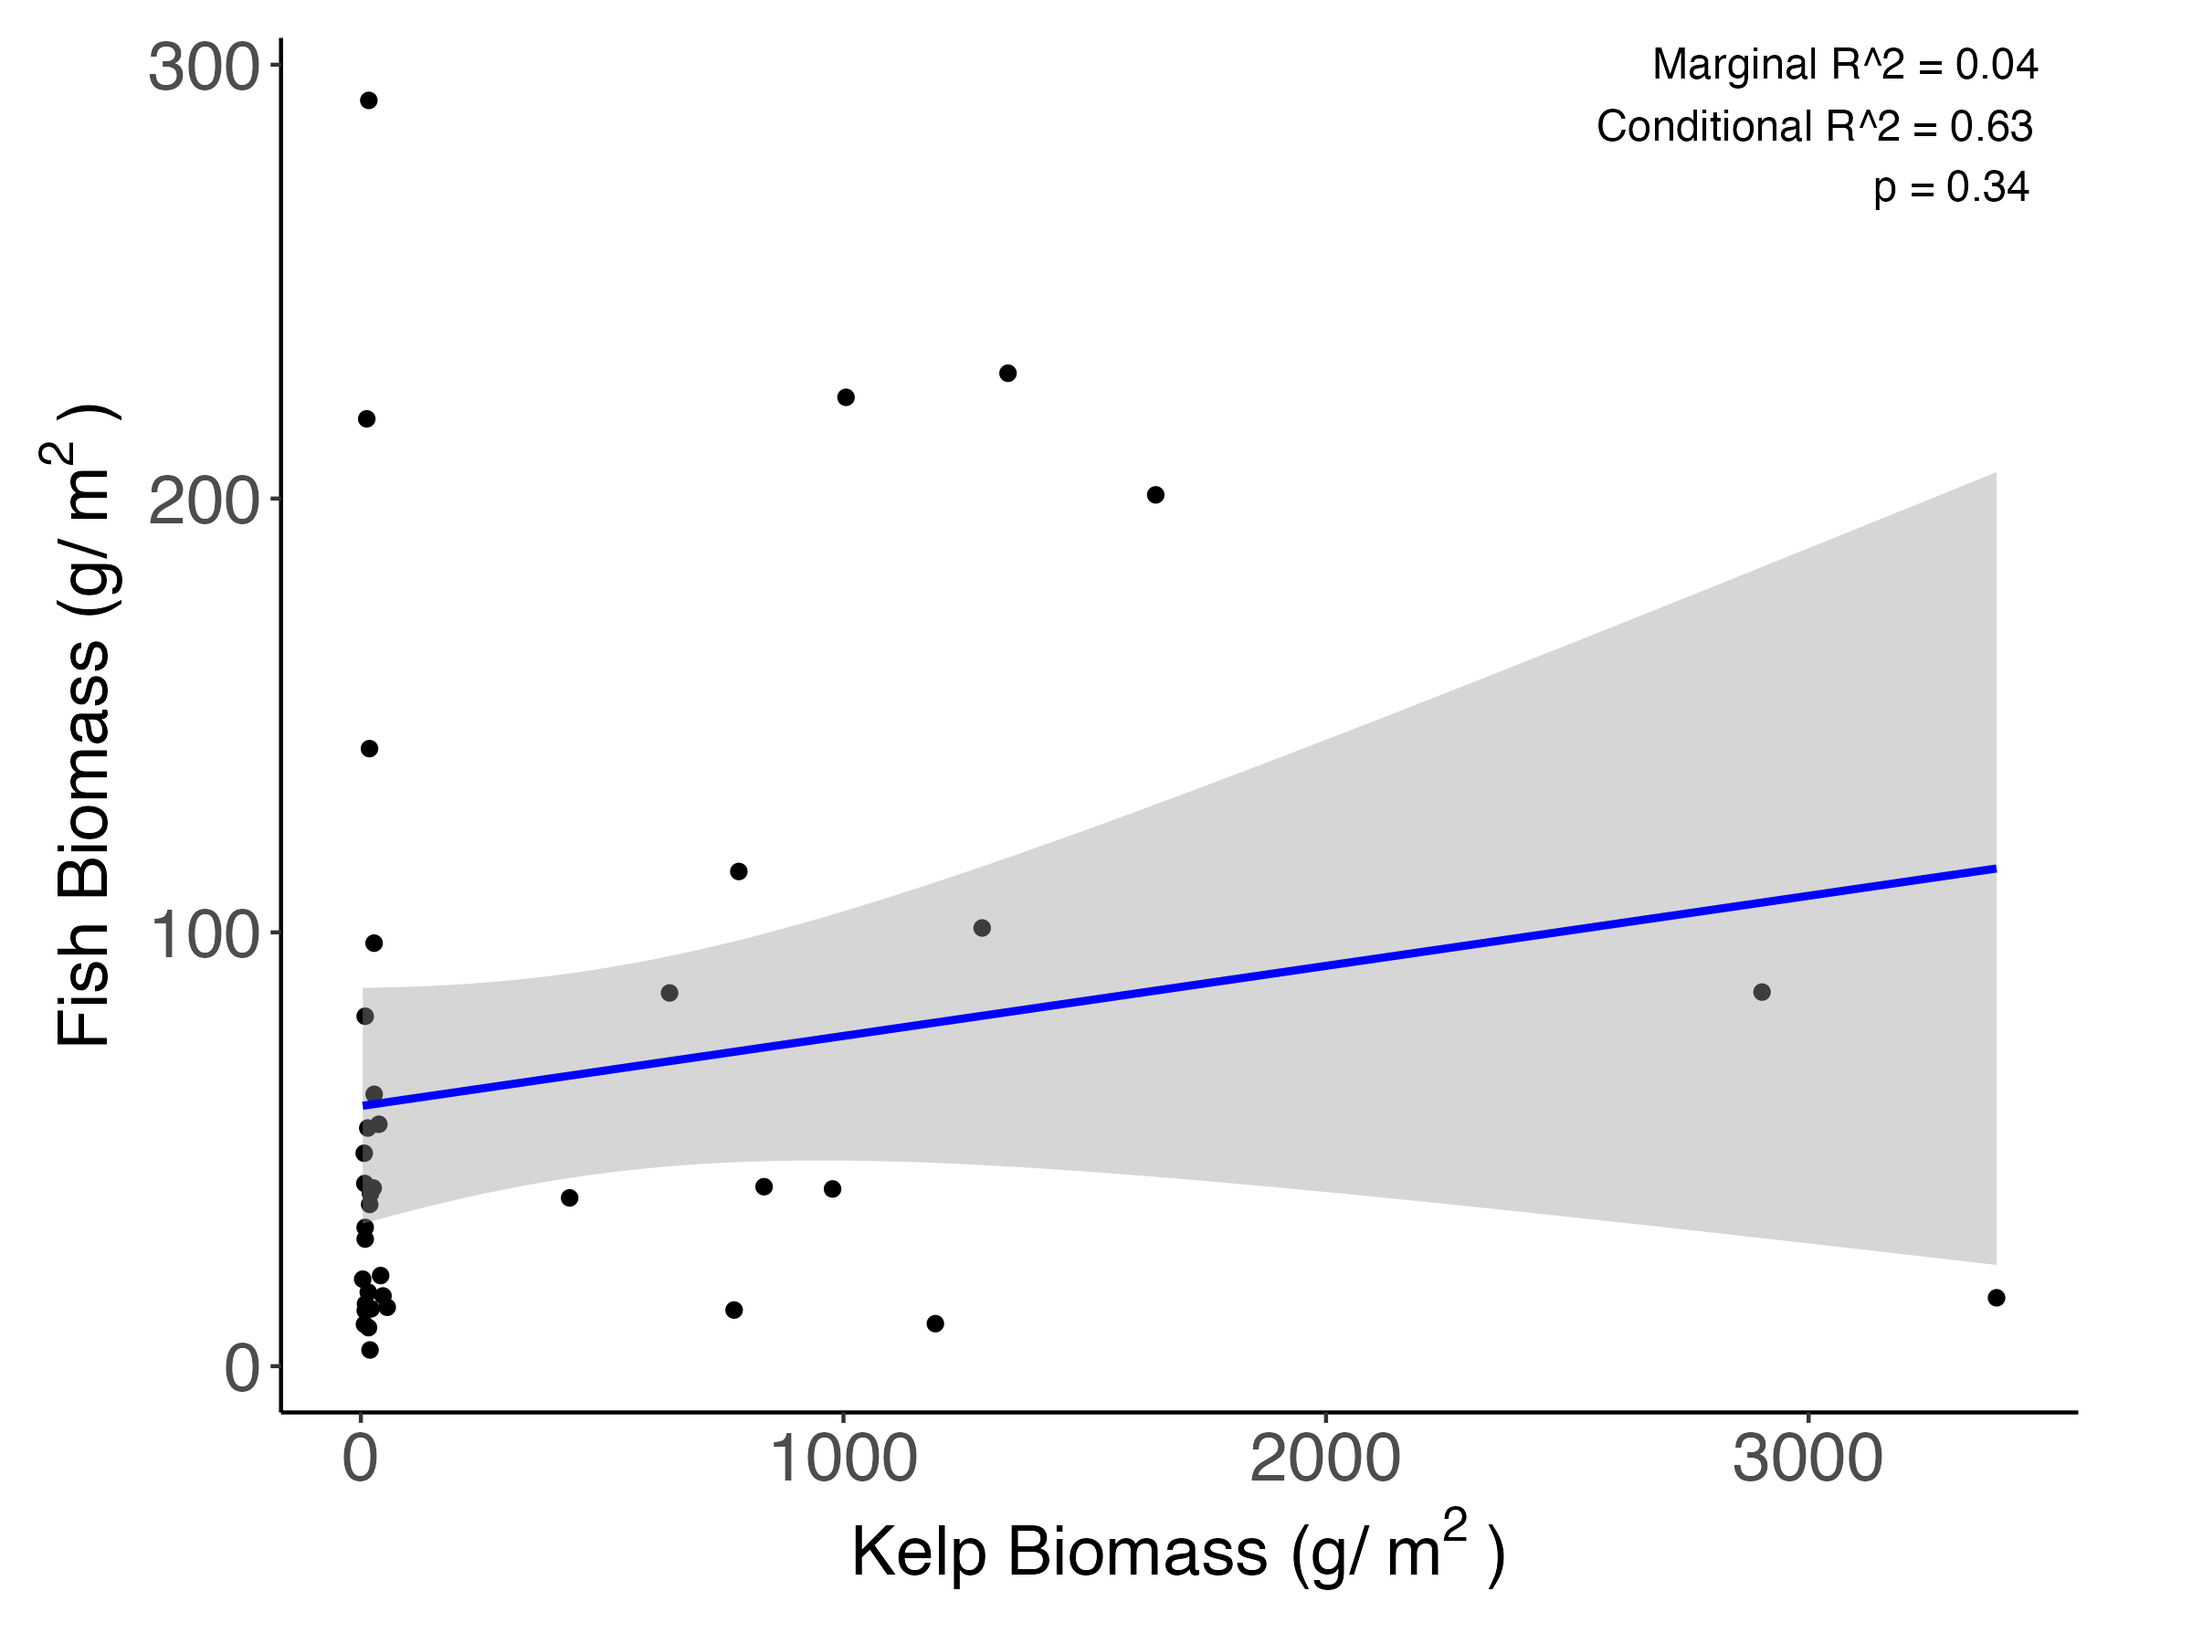
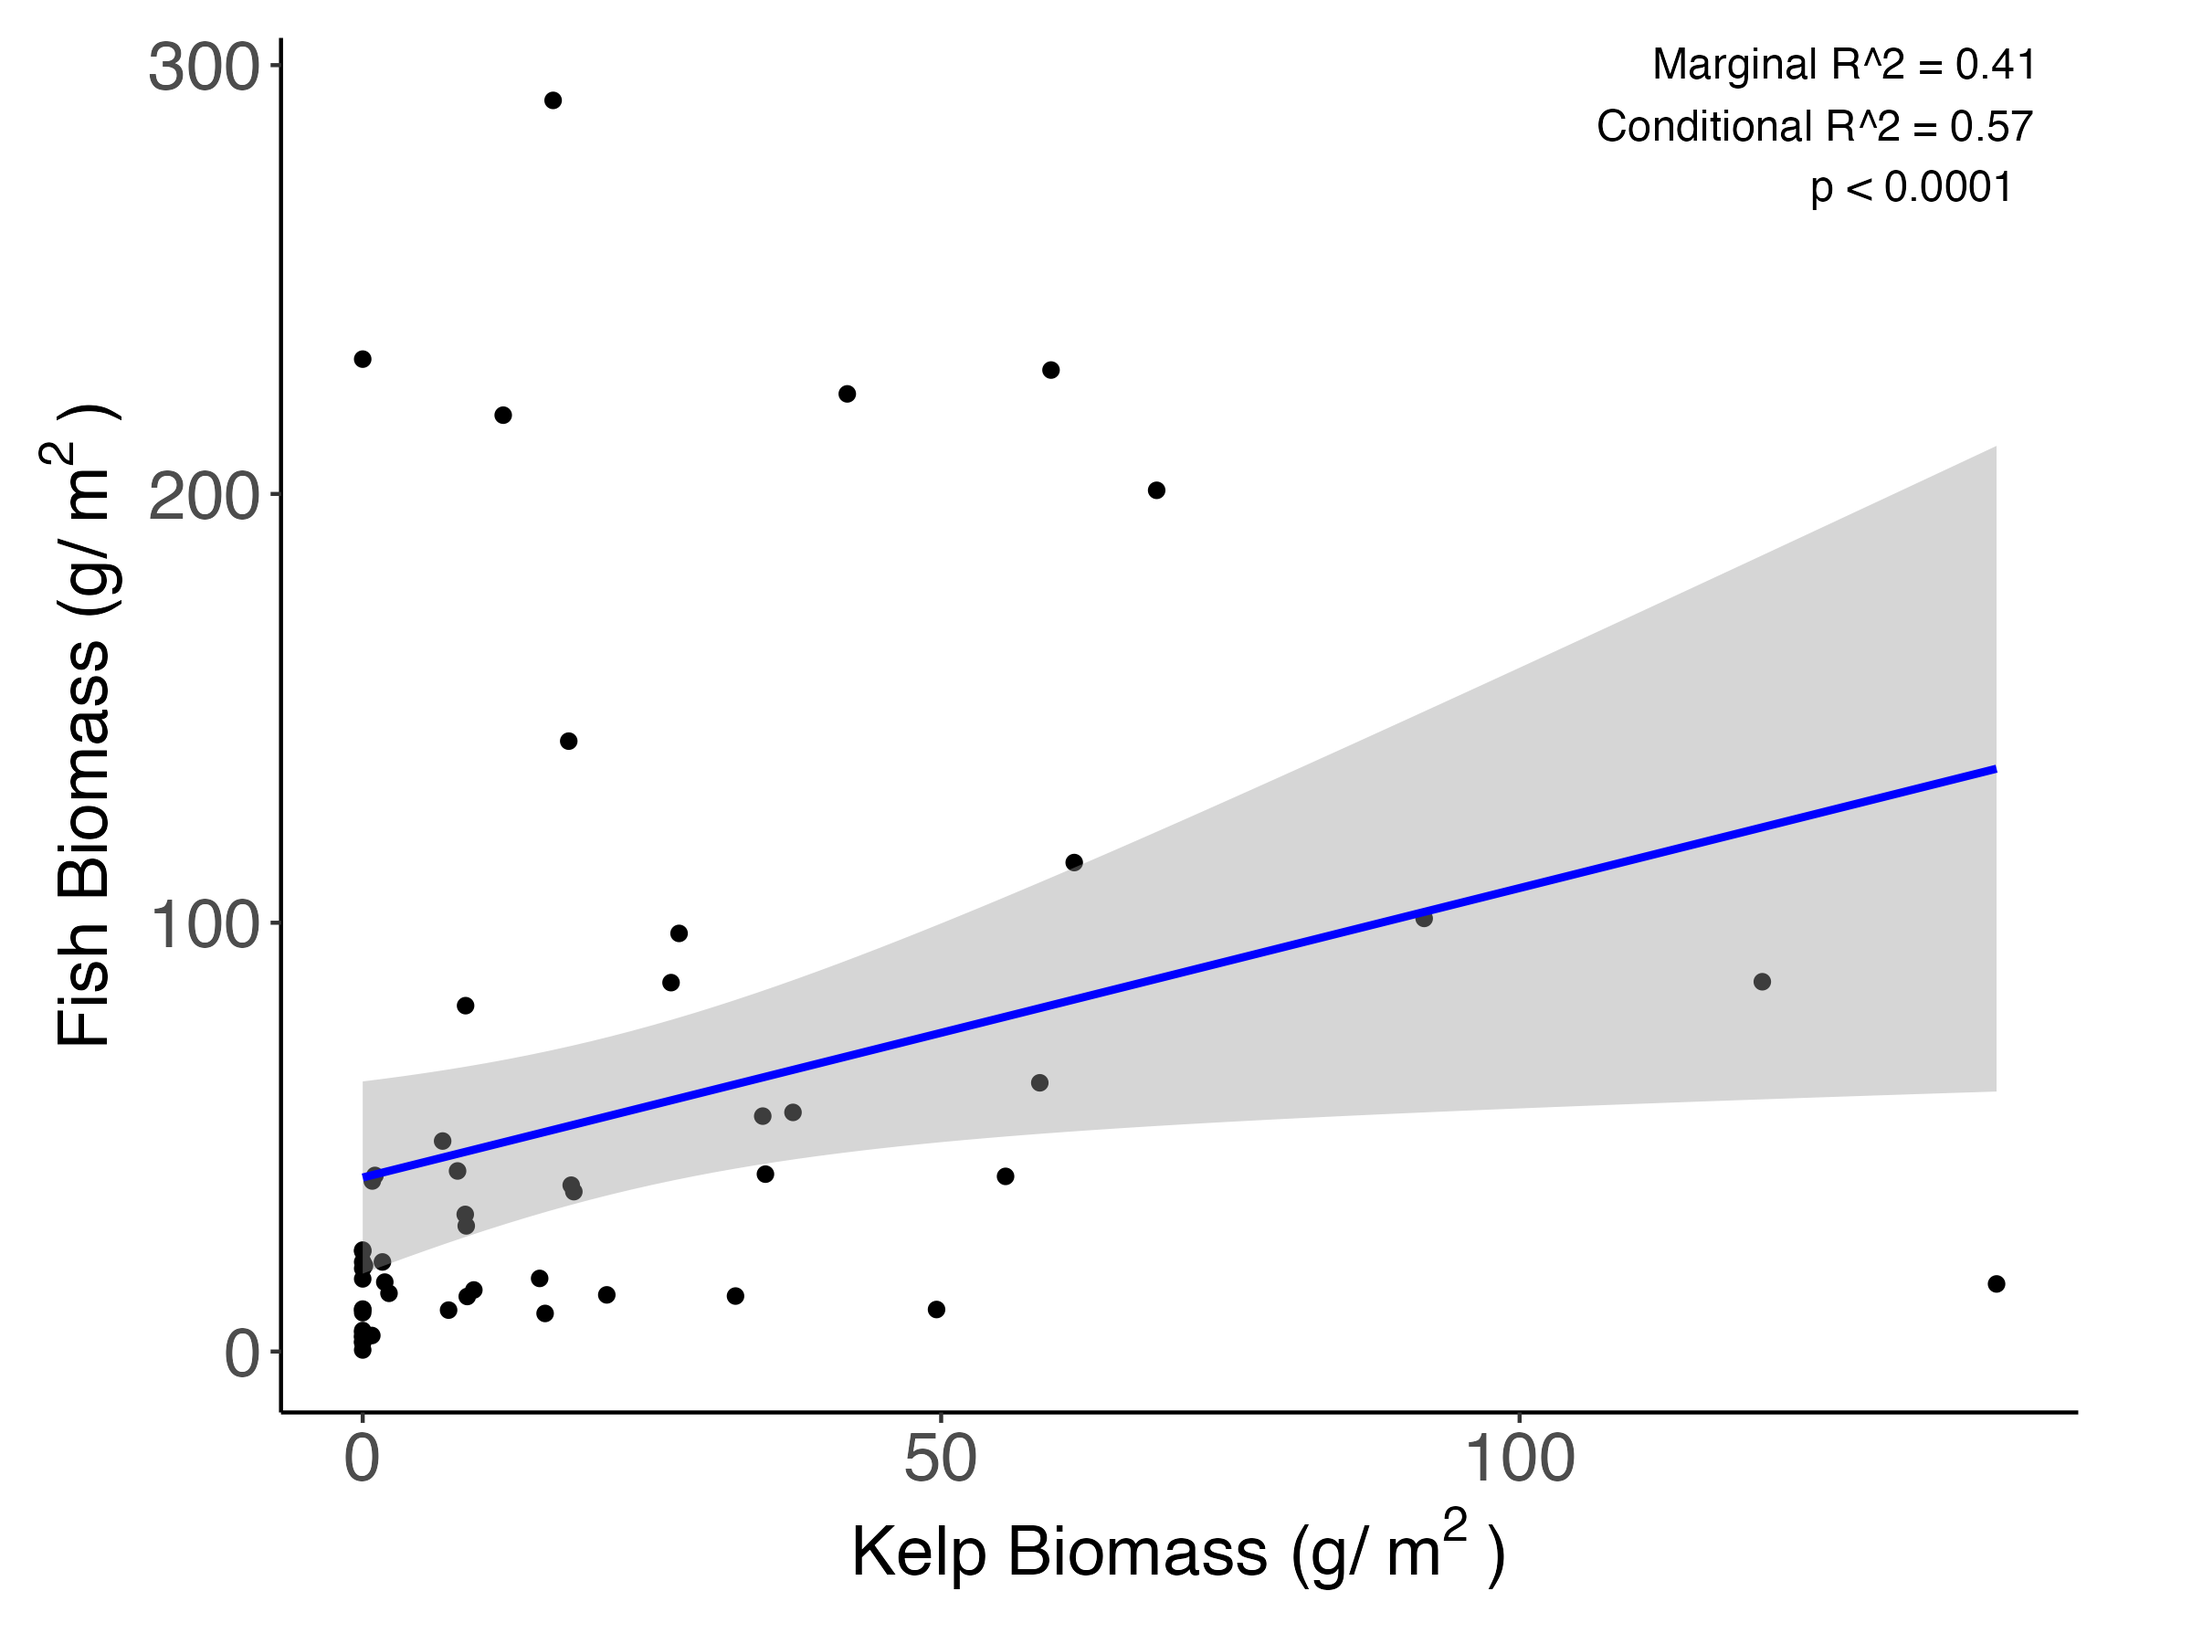
updated mmanuscript figures and habitat productivity index

diff --git a/output/temperature_table.html b/output/temperature_table.html
@@ -7,23 +7,23 @@
 
 </head>
 <body>
-<div id="nvyzesyyic" style="padding-left:0px;padding-right:0px;padding-top:10px;padding-bottom:10px;overflow-x:auto;overflow-y:auto;width:auto;height:auto;">
-  <style>#nvyzesyyic table {
+<div id="qbdmevsytv" style="padding-left:0px;padding-right:0px;padding-top:10px;padding-bottom:10px;overflow-x:auto;overflow-y:auto;width:auto;height:auto;">
+  <style>#qbdmevsytv table {
   font-family: system-ui, 'Segoe UI', Roboto, Helvetica, Arial, sans-serif, 'Apple Color Emoji', 'Segoe UI Emoji', 'Segoe UI Symbol', 'Noto Color Emoji';
   -webkit-font-smoothing: antialiased;
   -moz-osx-font-smoothing: grayscale;
 }
 
-#nvyzesyyic thead, #nvyzesyyic tbody, #nvyzesyyic tfoot, #nvyzesyyic tr, #nvyzesyyic td, #nvyzesyyic th {
+#qbdmevsytv thead, #qbdmevsytv tbody, #qbdmevsytv tfoot, #qbdmevsytv tr, #qbdmevsytv td, #qbdmevsytv th {
   border-style: none;
 }
 
-#nvyzesyyic p {
+#qbdmevsytv p {
   margin: 0;
   padding: 0;
 }
 
-#nvyzesyyic .gt_table {
+#qbdmevsytv .gt_table {
   display: table;
   border-collapse: collapse;
   line-height: normal;
@@ -49,12 +49,12 @@
   border-left-color: #D3D3D3;
 }
 
-#nvyzesyyic .gt_caption {
+#qbdmevsytv .gt_caption {
   padding-top: 4px;
   padding-bottom: 4px;
 }
 
-#nvyzesyyic .gt_title {
+#qbdmevsytv .gt_title {
   color: #333333;
   font-size: 125%;
   font-weight: initial;
@@ -66,7 +66,7 @@
   border-bottom-width: 0;
 }
 
-#nvyzesyyic .gt_subtitle {
+#qbdmevsytv .gt_subtitle {
   color: #333333;
   font-size: 85%;
   font-weight: initial;
@@ -78,7 +78,7 @@
   border-top-width: 0;
 }
 
-#nvyzesyyic .gt_heading {
+#qbdmevsytv .gt_heading {
   background-color: #FFFFFF;
   text-align: center;
   border-bottom-color: #FFFFFF;
@@ -90,13 +90,13 @@
   border-right-color: #D3D3D3;
 }
 
-#nvyzesyyic .gt_bottom_border {
+#qbdmevsytv .gt_bottom_border {
   border-bottom-style: solid;
   border-bottom-width: 2px;
   border-bottom-color: #D3D3D3;
 }
 
-#nvyzesyyic .gt_col_headings {
+#qbdmevsytv .gt_col_headings {
   border-top-style: solid;
   border-top-width: 2px;
   border-top-color: #D3D3D3;
@@ -111,7 +111,7 @@
   border-right-color: #D3D3D3;
 }
 
-#nvyzesyyic .gt_col_heading {
+#qbdmevsytv .gt_col_heading {
   color: #333333;
   background-color: #FFFFFF;
   font-size: 100%;
@@ -131,7 +131,7 @@
   overflow-x: hidden;
 }
 
-#nvyzesyyic .gt_column_spanner_outer {
+#qbdmevsytv .gt_column_spanner_outer {
   color: #333333;
   background-color: #FFFFFF;
   font-size: 100%;
@@ -143,15 +143,15 @@
   padding-right: 4px;
 }
 
-#nvyzesyyic .gt_column_spanner_outer:first-child {
+#qbdmevsytv .gt_column_spanner_outer:first-child {
   padding-left: 0;
 }
 
-#nvyzesyyic .gt_column_spanner_outer:last-child {
+#qbdmevsytv .gt_column_spanner_outer:last-child {
   padding-right: 0;
 }
 
-#nvyzesyyic .gt_column_spanner {
+#qbdmevsytv .gt_column_spanner {
   border-bottom-style: solid;
   border-bottom-width: 2px;
   border-bottom-color: #D3D3D3;
@@ -163,11 +163,11 @@
   width: 100%;
 }
 
-#nvyzesyyic .gt_spanner_row {
+#qbdmevsytv .gt_spanner_row {
   border-bottom-style: hidden;
 }
 
-#nvyzesyyic .gt_group_heading {
+#qbdmevsytv .gt_group_heading {
   padding-top: 8px;
   padding-bottom: 8px;
   padding-left: 5px;
@@ -193,7 +193,7 @@
   text-align: left;
 }
 
-#nvyzesyyic .gt_empty_group_heading {
+#qbdmevsytv .gt_empty_group_heading {
   padding: 0.5px;
   color: #333333;
   background-color: #FFFFFF;
@@ -208,15 +208,15 @@
   vertical-align: middle;
 }
 
-#nvyzesyyic .gt_from_md > :first-child {
+#qbdmevsytv .gt_from_md > :first-child {
   margin-top: 0;
 }
 
-#nvyzesyyic .gt_from_md > :last-child {
+#qbdmevsytv .gt_from_md > :last-child {
   margin-bottom: 0;
 }
 
-#nvyzesyyic .gt_row {
+#qbdmevsytv .gt_row {
   padding-top: 8px;
   padding-bottom: 8px;
   padding-left: 5px;
@@ -235,7 +235,7 @@
   overflow-x: hidden;
 }
 
-#nvyzesyyic .gt_stub {
+#qbdmevsytv .gt_stub {
   color: #333333;
   background-color: #FFFFFF;
   font-size: 100%;
@@ -248,7 +248,7 @@
   padding-right: 5px;
 }
 
-#nvyzesyyic .gt_stub_row_group {
+#qbdmevsytv .gt_stub_row_group {
   color: #333333;
   background-color: #FFFFFF;
   font-size: 100%;
@@ -262,15 +262,15 @@
   vertical-align: top;
 }
 
-#nvyzesyyic .gt_row_group_first td {
+#qbdmevsytv .gt_row_group_first td {
   border-top-width: 2px;
 }
 
-#nvyzesyyic .gt_row_group_first th {
+#qbdmevsytv .gt_row_group_first th {
   border-top-width: 2px;
 }
 
-#nvyzesyyic .gt_summary_row {
+#qbdmevsytv .gt_summary_row {
   color: #333333;
   background-color: #FFFFFF;
   text-transform: inherit;
@@ -280,16 +280,16 @@
   padding-right: 5px;
 }
 
-#nvyzesyyic .gt_first_summary_row {
+#qbdmevsytv .gt_first_summary_row {
   border-top-style: solid;
   border-top-color: #D3D3D3;
 }
 
-#nvyzesyyic .gt_first_summary_row.thick {
+#qbdmevsytv .gt_first_summary_row.thick {
   border-top-width: 2px;
 }
 
-#nvyzesyyic .gt_last_summary_row {
+#qbdmevsytv .gt_last_summary_row {
   padding-top: 8px;
   padding-bottom: 8px;
   padding-left: 5px;
@@ -299,7 +299,7 @@
   border-bottom-color: #D3D3D3;
 }
 
-#nvyzesyyic .gt_grand_summary_row {
+#qbdmevsytv .gt_grand_summary_row {
   color: #333333;
   background-color: #FFFFFF;
   text-transform: inherit;
@@ -309,7 +309,7 @@
   padding-right: 5px;
 }
 
-#nvyzesyyic .gt_first_grand_summary_row {
+#qbdmevsytv .gt_first_grand_summary_row {
   padding-top: 8px;
   padding-bottom: 8px;
   padding-left: 5px;
@@ -319,7 +319,7 @@
   border-top-color: #D3D3D3;
 }
 
-#nvyzesyyic .gt_last_grand_summary_row_top {
+#qbdmevsytv .gt_last_grand_summary_row_top {
   padding-top: 8px;
   padding-bottom: 8px;
   padding-left: 5px;
@@ -329,11 +329,11 @@
   border-bottom-color: #D3D3D3;
 }
 
-#nvyzesyyic .gt_striped {
+#qbdmevsytv .gt_striped {
   background-color: rgba(128, 128, 128, 0.05);
 }
 
-#nvyzesyyic .gt_table_body {
+#qbdmevsytv .gt_table_body {
   border-top-style: solid;
   border-top-width: 2px;
   border-top-color: #D3D3D3;
@@ -342,7 +342,7 @@
   border-bottom-color: #D3D3D3;
 }
 
-#nvyzesyyic .gt_footnotes {
+#qbdmevsytv .gt_footnotes {
   color: #333333;
   background-color: #FFFFFF;
   border-bottom-style: none;
@@ -356,7 +356,7 @@
   border-right-color: #D3D3D3;
 }
 
-#nvyzesyyic .gt_footnote {
+#qbdmevsytv .gt_footnote {
   margin: 0px;
   font-size: 90%;
   padding-top: 4px;
@@ -365,7 +365,7 @@
   padding-right: 5px;
 }
 
-#nvyzesyyic .gt_sourcenotes {
+#qbdmevsytv .gt_sourcenotes {
   color: #333333;
   background-color: #FFFFFF;
   border-bottom-style: none;
@@ -379,7 +379,7 @@
   border-right-color: #D3D3D3;
 }
 
-#nvyzesyyic .gt_sourcenote {
+#qbdmevsytv .gt_sourcenote {
   font-size: 90%;
   padding-top: 4px;
   padding-bottom: 4px;
@@ -387,63 +387,63 @@
   padding-right: 5px;
 }
 
-#nvyzesyyic .gt_left {
+#qbdmevsytv .gt_left {
   text-align: left;
 }
 
-#nvyzesyyic .gt_center {
+#qbdmevsytv .gt_center {
   text-align: center;
 }
 
-#nvyzesyyic .gt_right {
+#qbdmevsytv .gt_right {
   text-align: right;
   font-variant-numeric: tabular-nums;
 }
 
-#nvyzesyyic .gt_font_normal {
+#qbdmevsytv .gt_font_normal {
   font-weight: normal;
 }
 
-#nvyzesyyic .gt_font_bold {
+#qbdmevsytv .gt_font_bold {
   font-weight: bold;
 }
 
-#nvyzesyyic .gt_font_italic {
+#qbdmevsytv .gt_font_italic {
   font-style: italic;
 }
 
-#nvyzesyyic .gt_super {
+#qbdmevsytv .gt_super {
   font-size: 65%;
 }
 
-#nvyzesyyic .gt_footnote_marks {
+#qbdmevsytv .gt_footnote_marks {
   font-size: 75%;
   vertical-align: 0.4em;
   position: initial;
 }
 
-#nvyzesyyic .gt_asterisk {
+#qbdmevsytv .gt_asterisk {
   font-size: 100%;
   vertical-align: 0;
 }
 
-#nvyzesyyic .gt_indent_1 {
+#qbdmevsytv .gt_indent_1 {
   text-indent: 5px;
 }
 
-#nvyzesyyic .gt_indent_2 {
+#qbdmevsytv .gt_indent_2 {
   text-indent: 10px;
 }
 
-#nvyzesyyic .gt_indent_3 {
+#qbdmevsytv .gt_indent_3 {
   text-indent: 15px;
 }
 
-#nvyzesyyic .gt_indent_4 {
+#qbdmevsytv .gt_indent_4 {
   text-indent: 20px;
 }
 
-#nvyzesyyic .gt_indent_5 {
+#qbdmevsytv .gt_indent_5 {
   text-indent: 25px;
 }
 </style>
